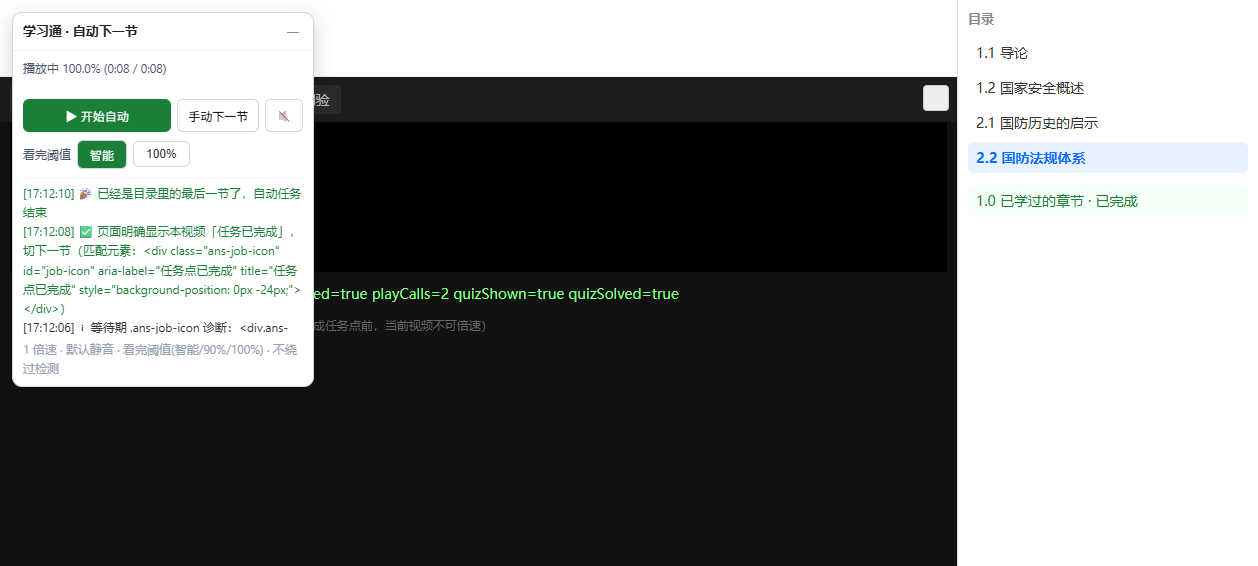
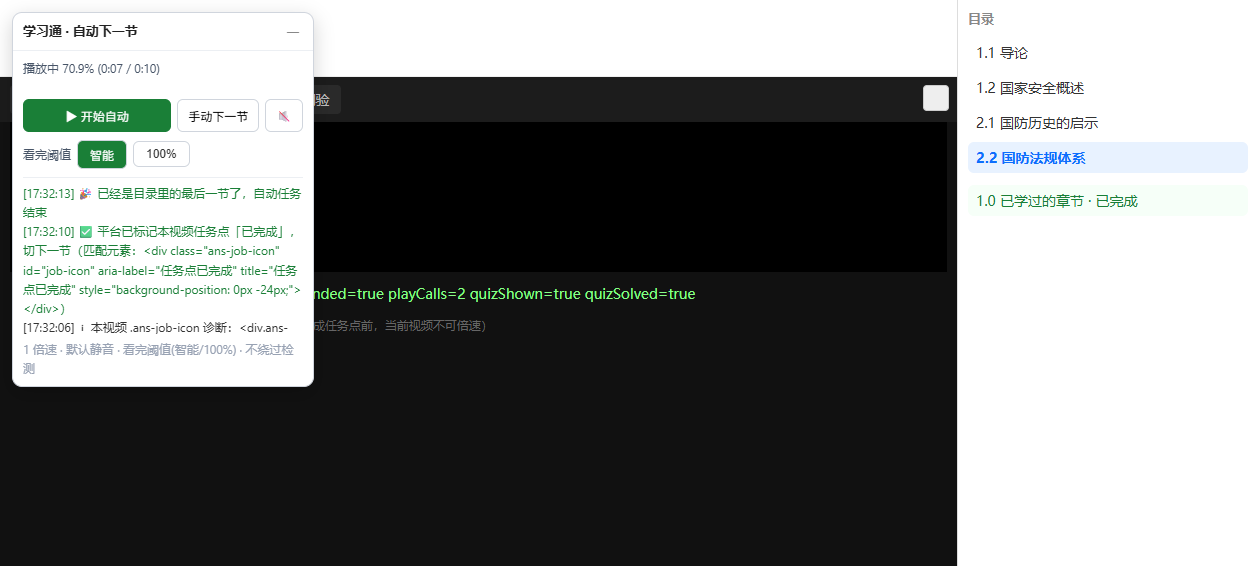
v1.3.18 智能模式改为每帧检查平台完成标记、一见已完成立即切（修复门槛未到时不检查导致的已显示完成却不切）；currentAttachCt 多路兜底 + aria-label 属性兜底 + 诊断增强

diff --git a/chaoxing-auto-next.user.js b/chaoxing-auto-next.user.js
@@ -1,7 +1,7 @@
 // ==UserScript==
 // @name         超星学习通 · 自动播放 + 播完自动下一节
 // @namespace    workbuddy.chaoxing.autonext
-// @version      1.3.17
+// @version      1.3.18
 // @description  自动播放当前章节的视频；播放完成后自动点击右侧目录的下一节并继续播放。不加速、不绕过平台的防挂机检测（视频内弹出的单选/多选题会自动尝试作答，多选暴力枚举组合）。
 // @author       WorkBuddy
 // @match        *://*.chaoxing.com/mycourse/studentstudy*
@@ -15,11 +15,14 @@
  * ---------------------------------------------------------------
  * 本脚本只做两件"免手动操作"的事：
  *   1) 进入某节后，自动点一下播放键（你本来也要点的）；
- *   2) 看完阈值三种模式（面板可切换，默认"智能"）：
- *        · 智能（默认）：先读视频旁「任务点」面板的完成条件（如"观看时长需 ≥ 总时长的 90%"）作为"看够没"的门槛；
- *          达到门槛（或视频播到结尾）后，**不再按百分比提前跳**，而是轮询等待页面**明确显示本视频"任务已完成/已完成"**这个信号，
- *          出现后才切下一节。这严格对齐平台真实完成态（平台写"90% 完成"只是观看要求，真正记完成要等它显式标记），
- *          也只盯"本视频"的状态、不被整节目录里其它任务点（如考核）干扰。
+ *   2) 看完阈值两种模式（面板可切换，默认"智能"）：
+ *        · 智能（默认）：**只要平台把"本视频"任务点标记为「已完成」就立刻切下一节**。真站的完成信号写在
+ *          内容页任务点容器 div.ans-attach-ct 里的状态图标 .ans-job-icon 上——`aria-label`（或 title）从
+ *          "任务点未完成" 变成 "任务点已完成"，背景雪碧图第二帧 `background-position: 0px -24px`（未完成是
+ *          `0px 0px`）；脚本由 video.frameElement 精确定位到"当前视频"这一个任务点容器，**每帧轮询、一见完成
+ *          标记就切**，不再等百分比（实测真站会在视频播到 ~96% 时先标记完成、而"观看要求"门槛还没到）。
+ *          若一直等不到标记，才退化为"看够「任务点」面板要求的门槛 → 等待 → 超时安全兜底切"。只盯"本视频"，
+ *          不被本章其它任务点（考核/文档）或右侧目录里已看完章节干扰。
  *        · 100%：视频必须播到结尾才直接切（不等平台确认）。
  * 视频仍然按 1 倍速、在前台、真实播放完整时长，不改学习记录。
  * 默认【静音】自动播放（浏览器普遍拦截"带声音的自动播放"，静音才稳；面板右侧 🔇/🔊 可一键切回有声）。
@@ -80,6 +83,7 @@
   let finishMode = 'smart';      // 看完阈值模式：'smart' 智能（读视频完成阈值，等页面显式标记完成才切）/ 'ratio100'（100% 直接切）
   let videoCompletedSignaled = false; // 智能模式：本视频是否已检测到"页面明确显示任务完成"信号
   let waitingCompleteSince = 0;   // 智能模式：进入"等页面标记任务完成"状态的起始时间戳（0=还没进）
+  let iconDiagKey = '';          // 本视频的 .ans-job-icon 一次性诊断是否已打印（值为 videoKey，避免重复刷屏）
   let lastKey = '';              // 当前已接管的视频标识
   let lastTabTryAt = 0;          // 上次尝试点「视频」标签的时间
   let tabMissLogged = false;     // 「本节没有视频标签」只提醒一次
@@ -630,19 +634,33 @@
     return null; // 信息不足，交给上层兜底
   }
 
-  /* 从"当前在播视频"回溯到它所在的任务点容器 div.ans-attach-ct */
+  /* 从"当前在播视频"回溯到它所在的任务点容器 div.ans-attach-ct。
+     真站各版本嵌套深度不一，这里用多路兜底，尽量稳： */
   function currentAttachCt(v) {
     try {
       const win = v && v.ownerDocument && v.ownerDocument.defaultView;
       const fe = win && win.frameElement;             // 视频所在 iframe（位于内容页里）
       if (!fe) return null;
+      /* ① 向上找 .ans-attach-ct（放宽到 12 层，防某些章节嵌套更深） */
       let n = fe;
-      for (let i = 0; i < 6 && n; i++) {
+      for (let i = 0; i < 12 && n; i++) {
         if (n.classList && n.classList.contains('ans-attach-ct')) return n;
         n = n.parentElement;
       }
-      n = fe;                                          // 放宽：退而求其次找最近的含 .ans-job-icon 的祖先
-      for (let i = 0; i < 6 && n; i++) {
+      /* ② 原生 closest */
+      try { const c = fe.closest && fe.closest('.ans-attach-ct'); if (c) return c; } catch (e) {}
+      /* ③ 在 fe 所在文档里，找"真正包含 fe"的 .ans-attach-ct（最可靠，不依赖层级） */
+      const doc = fe.ownerDocument;
+      if (doc) {
+        let cts = null;
+        try { cts = doc.querySelectorAll('.ans-attach-ct'); } catch (e) {}
+        for (let i = 0; cts && i < cts.length; i++) {
+          if (cts[i].contains && cts[i].contains(fe)) return cts[i];
+        }
+      }
+      /* ④ 退：最近的"含 .ans-job-icon"的祖先 */
+      n = fe;
+      for (let i = 0; i < 12 && n; i++) {
         if (n.querySelector && n.querySelector('.ans-job-icon, .ans-job-icon-clear')) return n;
         n = n.parentElement;
       }
@@ -658,7 +676,7 @@
   }
 
   function detectVideoTaskCompleted(v) {
-    /* ① 真站权威：当前视频所在任务点容器 */
+    /* ① 真站权威：当前视频所在任务点容器 .ans-attach-ct 内的状态图标 .ans-job-icon */
     try {
       const ct = currentAttachCt(v);
       if (ct) {
@@ -666,21 +684,22 @@
         const icon = ct.querySelector('.ans-job-icon, .ans-job-icon-clear');
         const d = jobIconDone(icon);
         if (d === true) { setDoneMatch(icon); return true; }
-        if (d === false) return false;               // 明确未完成 → 本视频任务点没完成，继续等
+        if (d === false) return false;               // 本视频任务点明确"未完成" → 继续等（不被别人干扰）
       }
     } catch (e) {}
-    /* ② 次选：页面里任一 .ans-job-icon 明确标"任务点已完成"（拿不到容器时） */
+    /* ② 退一步：视频 iframe 的直接父容器里的 .ans-job-icon（容器层级特殊时） */
     try {
-      const docs = collectDocs();
-      for (let i = 0; i < docs.length; i++) {
-        let icons;
-        try { icons = docs[i].querySelectorAll('.ans-job-icon, .ans-job-icon-clear'); } catch (e) { continue; }
-        for (let j = 0; j < icons.length; j++) {
-          if (jobIconDone(icons[j]) === true) { setDoneMatch(icons[j]); return true; }
-        }
+      const win = v && v.ownerDocument && v.ownerDocument.defaultView;
+      const fe = win && win.frameElement;
+      if (fe && fe.parentElement) {
+        const icon = fe.parentElement.querySelector('.ans-job-icon, .ans-job-icon-clear');
+        const d = jobIconDone(icon);
+        if (d === true) { setDoneMatch(icon); return true; }
+        if (d === false) return false;
       }
     } catch (e) {}
-    /* ③ 兜底：短文本元素含"任务点已完成"（本地 mock / 页面变体） */
+    /* ③ 兜底：元素的文本 **或 aria-label/title 属性** 含"任务点已完成"
+         （有的版本把状态字样写在属性里而非文本里；本地 mock 也走这条） */
     try {
       const docs = collectDocs();
       const DONE = /任务点[\s：:·]*已\s*完成/;
@@ -691,11 +710,14 @@
         try { els = docs[i].querySelectorAll('*'); } catch (e) { continue; }
         for (let j = 0; j < els.length; j++) {
           const el = els[j];
-          const t = (el.textContent || '').replace(/\s+/g, '');
-          if (!t || t.length > 60) continue;
-          if (!DONE.test(t) || NOTDONE.test(t)) continue;
+          const attr = ((el.getAttribute && (el.getAttribute('aria-label') || el.getAttribute('title'))) || '').replace(/\s+/g, '');
+          const txt = (el.textContent || '').replace(/\s+/g, '');
+          let cand = '';
+          if (attr && attr.length <= 60 && DONE.test(attr) && !NOTDONE.test(attr)) cand = attr;
+          else if (txt && txt.length <= 60 && DONE.test(txt) && !NOTDONE.test(txt)) cand = txt;
+          if (!cand) continue;
           if (isInCatalog(el)) continue;
-          if (!best || t.length < best.len) best = { el: el, len: t.length };
+          if (!best || cand.length < best.len) best = { el: el, len: cand.length };
         }
       }
       if (best) { setDoneMatch(best.el); return true; }
@@ -858,6 +880,14 @@
     setStatus('播放中 ' + (ratio * 100).toFixed(1) + '%  (' +
               fmtTime(v.currentTime) + ' / ' + fmtTime(v.duration) + ')');
 
+    /* 一次性诊断：本视频播到 ~15% 时打印一次 .ans-job-icon 状态（每个视频仅一次），
+       万一某版本仍不切，凭这一行就能看到真站到底有没有 .ans-job-icon、属性是什么。 */
+    if (iconDiagKey !== key && ratio > 0.15) {
+      iconDiagKey = key;
+      const jic0 = diagJobIcons();
+      log('ℹ 本视频 .ans-job-icon 诊断：' + (jic0 || '(未找到 .ans-job-icon)'), 'info');
+    }
+
     /* 切换阈值 / 切换触发逻辑：
        100% 模式 = 0.999（≈播到结尾，直接切）；
        智能 模式 = 从「任务点」面板读本视频的"观看要求"（如"观看时长 ≥ 总时长 90%"）作为门槛，
@@ -881,26 +911,28 @@
     const gateReached = v.ended || ratio >= gateThreshold;
 
     if (finishMode === 'smart') {
-      /* 智能：必须等"页面明确显示本视频任务完成"才切，绝不按百分比提前跳。 */
-      if (!gateReached) return; /* 还没看够门槛，继续播（上方已显示"播放中 X%"进度） */
-
-      /* 已达观看门槛 → 轮询显式完成信号（真站信号在 .ans-job-icon 的 aria-label / 背景雪碧图，不在文本） */
+      /* ⭐ 平台一旦显式标记本视频任务点「已完成」，**立即切** —— 不看百分比门槛。
+         平台的完成标记才是权威信号：实测真站「✓ 任务点已完成」会在视频播到 ~96% 时就出现，
+         此时"观看要求"门槛（如 100%）往往还没到；若非要等门槛才检查，就会出现
+         "页面已显示完成、脚本却一直不切"（旧版假阴性的直接原因）。 */
       if (detectVideoTaskCompleted(v)) {
         if (!videoCompletedSignaled) {
           videoCompletedSignaled = true;
           const m = (typeof window.__cxDoneMatch === 'string' && window.__cxDoneMatch)
             ? '（匹配元素：' + window.__cxDoneMatch + '）' : '';
-          log('✅ 页面明确显示本视频「任务已完成」，切下一节' + m, 'ok');
+          log('✅ 平台已标记本视频任务点「已完成」，切下一节' + m, 'ok');
         }
         doSwitch();
         return;
       }
 
-      /* 还没看到完成信号 → 进入"等待平台标记完成"状态，持续轮询 */
+      /* 还没看到完成标记：先看够"观看要求"门槛，再进等待轮询（兜底：门槛到了仍无标记 → 超时也切） */
+      if (!gateReached) return; /* 还没看够门槛，继续播（上方已显示"播放中 X%"进度） */
+
       if (!waitingCompleteSince) {
         waitingCompleteSince = Date.now();
         log('ℹ 已满足观看要求（≥' + Math.round(gateThreshold * 100) +
-            '%），开始等待页面明确标记「任务完成」后再切（不再按百分比提前跳）', 'info');
+            '%），开始等待平台标记「任务点完成」后再切（不再按百分比提前跳）', 'info');
         const diag = diagTaskPointHTML();
         if (diag) log('ℹ 等待期任务点面板 HTML(节选)：' + diag, 'info');
         const cand = diagTaskStatusLabels();
@@ -911,11 +943,11 @@
       const waited = Date.now() - waitingCompleteSince;
       if (waited > CFG.COMPLETE_MAXWAIT_MS) {
         log('⚠ 已等待 ' + (CFG.COMPLETE_MAXWAIT_MS / 1000) +
-            ' 秒仍未检测到页面「任务完成」信号，按安全兜底切下一节（可能任务点未真正记上，请把上面"任务点面板 HTML"发我校准）', 'warn');
+            ' 秒仍未检测到平台「任务点完成」标记，按安全兜底切下一节（可能任务点未真正记上，请把上面诊断发我校准）', 'warn');
         doSwitch();
         return;
       }
-      setStatus('已看够 ' + Math.round(gateThreshold * 100) + '%，等页面标记「任务完成」中…（已等 ' +
+      setStatus('已看够 ' + Math.round(gateThreshold * 100) + '%，等平台标记「任务点完成」中…（已等 ' +
                 Math.round(waited / 1000) + 's）');
       return;
     }
@@ -1029,7 +1061,7 @@
       '    <button id="cx-ratio-100" style="cursor:pointer;border:1px solid #d0d5dd;border-radius:6px;padding:5px 12px;background:#fff;color:#333;font-size:12px;">100%</button>',
       '  </div>',
       '  <div id="cx-log" style="max-height:150px;overflow-y:auto;border-top:1px solid #eceff3;padding-top:6px;"></div>',
-      '  <div style="color:#98a2b3;margin-top:6px;">1 倍速 · 默认静音 · 看完阈值(智能/90%/100%) · 不绕过检测</div>',
+      '  <div style="color:#98a2b3;margin-top:6px;">1 倍速 · 默认静音 · 看完阈值(智能/100%) · 不绕过检测</div>',
       '</div>'
     ].join('');
 

diff --git a/mock/layer2.html b/mock/layer2.html
@@ -79,8 +79,11 @@
   /* 奇数节默认落在「基础知识」（视频要手动点进去），偶数节直接进视频 */
   showTab((Number(n) % 2 === 1) ? 0 : 2);
 
-  /* ---------- 假视频：进度用 Date.now() 算，不受后台节流影响 ---------- */
-  var DUR = 8, MS_PER_SEC = 125, accum = 0, segStart = 0;
+  /* ---------- 假视频：进度用 Date.now() 算，不受后台节流影响 ----------
+     1 视频秒 = 1 真实秒（MS_PER_SEC=1000），让"完成标记出现在视频中段"这类时序可被观测。
+     DUR=10：视频在 50%（t=5）时被平台标记完成，脚本 2.5s 切换延迟后 t≈7.5 就切走 —— 仍未到结尾，
+     从而能证明"一见完成标记就切"（而非等到播完）。 */
+  var DUR = 10, MS_PER_SEC = 1000, accum = 0, segStart = 0;
   function segElapsed() { return segStart ? (Date.now() - segStart) / MS_PER_SEC : 0; }
   function elapsed() { return accum + segElapsed(); }
 
@@ -126,7 +129,7 @@
   });
 
   function maybeShowQuiz() {
-    if (!window.__quizShown && !window.__quizSolved && v.currentTime >= 3) {
+    if (!window.__quizShown && !window.__quizSolved && v.currentTime >= 1) {
       window.__quizShown = true;
       v.pause();                                       // 弹出弹题时暂停视频
       vq.style.display = 'block';
@@ -142,10 +145,11 @@
   };
 
   setInterval(function () {
-    /* 视频真正结束后：平台**延迟 2 秒**才把「任务点」标记为完成（模拟超星落库延迟，
-       即"视频播完了、页面还没显示完成"的那段窗口）。脚本智能模式必须等这个显式信号才切。 */
-    if (v.ended && !window.__completeAt) window.__completeAt = Date.now() + 2000;
-    if (window.__completeAt && !window.__markedComplete && Date.now() >= window.__completeAt) {
+    /* ⭐ 真站实测：平台会在视频**还没播完**（约 90%+）时就把任务点标记为「已完成」。
+       这里复现该场景：视频播到 **50%** 就标记完成 —— 远早于"观看要求"门槛、也早于视频结束。
+       v1.3.18 的智能模式必须"一看到完成标记就切"，而不是死等百分比门槛或视频播完。 */
+    if (!window.__doneMarkAt && v.currentTime >= DUR * 0.5) window.__doneMarkAt = Date.now() + 400;
+    if (window.__doneMarkAt && !window.__markedComplete && Date.now() >= window.__doneMarkAt) {
       window.__markedComplete = true;
       try {
         var l1 = window.parent;                                    // layer1（任务点容器所在层）

diff --git a/mock/index.html b/mock/index.html
@@ -68,6 +68,16 @@
   window.__activated = [];
 
   function activate(i) {
+    /* 切章前，先记录"上一节视频被切走那一刻"的状态（ended / t / 播放次数）——
+       自测据此验证脚本是"一看到完成标记就切"（此时视频还没播到结尾），还是死等到了结尾。 */
+    try {
+      var of = document.getElementById('iframe');
+      var ovf = of && of.contentDocument && of.contentDocument.getElementById('vframe');
+      var ol2 = ovf && ovf.contentDocument && ovf.contentDocument.defaultView;
+      if (ol2 && typeof ol2.__state === 'function') {
+        window.__switchStates = (window.__switchStates || []).concat([ol2.__state()]);
+      }
+    } catch (e) {}
     window.__activated.push(CHAPTERS[i].name);
     document.querySelectorAll('.posCatalog_select').forEach(function (n) {
       n.classList.remove('posCatalog_active');

diff --git a/安装与使用说明.md b/安装与使用说明.md
@@ -48,7 +48,7 @@
 4. 之后：自动点播放 → 视频真实播完 → 自动点右侧目录的下一节 → 继续。你只需要让这个标签页保持在前台。
 5. 想停就点 **⏸ 暂停自动**；想手动跳一节就点 **手动下一节**；面板左上角 **—** 可折叠。面板右侧的 **🔇 / 🔊** 按钮是静音开关：默认静音（避免浏览器拦截带声自动播放），想听声音就点一下切回🔊，再点回🔇。
 6. 面板里有一组 **「看完阈值」** 按钮：**智能** / **100%**，可随时切换（互斥，当前选中的亮绿）——
-   - **智能**（默认）：**只盯"本视频"的完成态，既不按百分比提前跳、也不等整节目录清零。** 先读视频旁「任务点」面板的完成条件（如"观看时长需 ≥ 总时长的 90%"）作为"看够没"的**门槛**；达到门槛（或视频播到结尾）后，脚本**轮询等待真站的任务点容器 `div.ans-attach-ct` 里的状态图标 `.ans-job-icon` 被标记为完成**——真站的完成信号藏在图标属性里：**`aria-label`（或 `title`）变成「任务点已完成」**，且背景雪碧图第二帧 **`background-position: 0px -24px`**（未完成是 `0px 0px`），有的版本还给 `.ans-attach-ct` 加 `ans-job-finished` 类、给图标加 `ans-job-icon-clear` 类。视频 iframe 就嵌在对应的 `.ans-attach-ct` 里，脚本由 `video.frameElement` 向上回溯直接定位到**当前视频这一个**任务点容器，只判它、不被本节其它任务点（考核/文档）或目录里已看完的章节干扰。⚠ 注意：这个"已完成"字样在 **`aria-label` 属性**里、完成态靠**背景雪碧图换位**表示，**不在页面 `textContent` 文本里**——所以"搜页面文字"永远搜不到（这正是此前多个版本一直假阴性的根因）。这严格对齐平台真实完成态（平台写"90% 完成"只是观看要求，真正记完成要等它显式标记）；
+   - **智能**（默认）：**只要真站把"本视频"任务点标记为「已完成」，立刻切下一节**（不等百分比）。真站完成信号**不在页面文字里**，而在内容页任务点容器 `div.ans-attach-ct` 内的状态图标 `.ans-job-icon` 上：`aria-label`（或 `title`）为「任务点已完成」、背景雪碧图第二帧 `background-position: 0px -24px`（未完成 `0px 0px`），有的版本给 `.ans-attach-ct` 加 `ans-job-finished` 类、给图标加 `ans-job-icon-clear` 类。视频 iframe 就嵌在对应 `.ans-attach-ct` 里，脚本由 `video.frameElement` **精确定位到"当前视频"这一个**任务点容器、每帧轮询，**一见完成标记就切**（实测真站在视频播到 ~96% 时就先标记完成，此时"观看要求"门槛还没到——旧版因为非要等门槛才检查，就会出现"页面已显示完成、脚本却不切"）。只盯"本视频"，不被本节其它任务点或目录里已看完章节干扰。万一一直等不到标记，才退化为"看够「任务点」面板要求的门槛 → 等待 → 超时安全兜底切"；
    - **100%**：必须等视频真正播到结尾（`ended`）才**直接**切，满足"要求全部看完"，但不等平台确认（万一平台 `ended` 事件没触发会多等一会儿，此时手动点「手动下一节」即可）。
 
 面板右下角有实时日志（哪节在播、几点切到下一节、是否遇到弹题等）。
@@ -60,7 +60,7 @@
 | 功能              | 行为                                 |
 | --------------- | ---------------------------------- |
 | ✅ 自动播放          | 进入某节后自动点击播放键（你本来也要点的）              |
-| ✅ 播完自动下一节       | 看完阈值可选 **智能 / 100%**（默认智能）：**智能**模式下脚本先读视频旁「任务点」面板的完成条件（如"观看时长需 ≥ 总时长的 90%"）作为"看够没"的门槛，达到门槛或播到结尾后，**不再按百分比提前跳，而是轮询等待当前视频的任务点容器 `div.ans-attach-ct` 里的状态图标 `.ans-job-icon` 被标记为完成**（真站信号在 `aria-label="任务点已完成"` + 背景雪碧图第二帧 `0px -24px`，**不在页面文本里**），出现才切（严格对齐平台真实完成态：平台写"90%完成"只是观看要求，真正记完成要等它显式标记；只判当前视频这一个任务点容器，不会误命中目录里其它已看完章节）；**100%** 模式下视频播到结尾（`ended`）后**直接**切下一节，不等待平台确认，满足"要求全部看完" |
+| ✅ 播完自动下一节       | 看完阈值可选 **智能 / 100%**（默认智能）：**智能**模式下脚本**只要真站把"本视频"任务点标记为「已完成」就立刻切**——信号读自当前视频任务点容器 `div.ans-attach-ct` 内的状态图标 `.ans-job-icon`（`aria-label="任务点已完成"` + 背景雪碧图第二帧 `0px -24px`，**不在页面文本里**），每帧轮询、不等百分比；一直等不到标记才退化为"看够「任务点」要求的门槛 → 等待 → 超时兜底切"。**100%** 模式下视频播到结尾（`ended`）后**直接**切下一节，不等待平台确认，满足"要求全部看完" |
 | ✅ 弹题自动作答（单选+多选） | 视频中途弹出**单选/多选题**时自动作答：单选逐个试选项、多选暴力枚举所有组合逐个试，答错或提交后 2.7 秒无反馈就换下一组重提交，直到答对（所有组合都试完仍无确定反馈才停下让你手动） |
 | ✅ 默认静音自动播放      | 浏览器普遍拦截"带声音的自动播放"，所以默认**静音**播放最稳；面板右侧 🔇/🔊 可一键切回有声 |
 | ✅ 遇到非视频节点       | 当前是音频/文档/测验且没找到视频时，会停下提醒你，不会替你跳过   |
@@ -109,6 +109,7 @@
 
 ## 七、版本更新
 
+- **v1.3.18**（2026-10-13）：**关键时序修正——智能模式"一见平台的完成标记就切"，不再死等百分比门槛。** 你回传真站截图：绿色徽标 `✓ 任务点已完成` 已经显示，但视频才播到 **96.9%**，脚本却一直停在"播放中 96.9%"、一动不动。根因是**检查时机**错了：v1.3.17 虽然已经读对了 `.ans-job-icon` 信号，但它把检查放在"**达到观看门槛之后**"——而这个视频的"观看要求"门槛（如 100%）还没到（平台却在 ~96% 时**提前**把任务点标记成已完成），于是脚本压根没去读那个已经存在的完成标记 → 表现为"已完成却不切"。改为：**每帧都先检查平台完成标记，一见「已完成」立即切**（不看百分比）；只有"一直等不到标记"时，才退化为原来的"看够门槛 → 等待 → 超时兜底切"。另加两处稳健性与诊断：① `currentAttachCt()` 定位当前视频任务点容器改用多路兜底（向上 12 层 + 原生 `closest()` + "在视频 iframe 所在文档里找真正包含它的 `.ans-attach-ct`"），应对真站不同版本的嵌套差异；② 兜底检测新增扫描 **`aria-label`/`title` 属性**（不再只扫文本），并把等待期诊断扩成 `.ans-job-icon` 的 `aria-label`+`backgroundPosition` 逐条打印；③ 新增"本视频 `.ans-job-icon` 诊断"一次性日志（视频播到 ~15% 时打印，每个视频一次），万一还有版本不切，凭这一行即可定位。同步修正面板底部长期未更新的文案（`看完阈值(智能/90%/100%)` → `看完阈值(智能/100%)`）。同步改 mock：把"完成标记"提前到视频 **50%**（远早于门槛与结尾）并记录每节"被切走那一刻的视频状态"，自测据此证明 v1.3.18 是"一见标记就切、而非死等门槛"——智能模式 4 节切走时 `ended=false`（视频**未播完**），而 100% 模式 4 节均 `ended=true`（播到结尾才切），两种模式对比即证明。
 - **v1.3.17**（2026-10-13）：**智能模式的完成检测改用超星真实 DOM 信号 `.ans-job-icon`，彻底修掉"已显示完成却不切"的假阴性。** 你回传真站截图：屏幕明明显示绿色徽标 `✓ 任务点已完成`，但面板诊断行"等待期『任务点』状态标签候选"里**只有 `任务点未完成`、从头到尾搜不到任何 `任务点已完成`**——这把真正的根因钉死了：**完成信号根本不在页面 `textContent` 文本里**。经核对多个公开脚本确认，超星前端把任务点完成态写在内容页 `#iframe` 里每个任务点容器 `div.ans-attach-ct` 中的状态图标 `div.ans-job-icon` 上：① `aria-label`（或 `title`）=「任务点已完成」（未完成="任务点未完成"）；② 完成时背景雪碧图第二帧 `background-position: 0px -24px`（未完成 `0px 0px`）；③ 有的版本给 `.ans-attach-ct` 加 `ans-job-finished`、给图标加 `ans-job-icon-clear`。视频 iframe 嵌在对应 `.ans-attach-ct` 内，脚本由 `video.frameElement` 向上回溯**精确定位当前视频这一个**任务点容器，只判它。v1.3.16 的"搜文本"思路从根上就不可能命中，所以这次重写成读 `.ans-job-icon` 的 `aria-label` / `backgroundPosition`（文本搜"任务点已完成"作为本地 mock / 变体兜底）。另新增等待期诊断行"等待期 `.ans-job-icon` 诊断"，打印每个图标的 `aria-label` 与 `backgroundPosition`，以后万一某版本没切，凭这一行就能确认是"雪碧图没变位"还是"真没完成"。同步把 mock 重构成真站结构：完成信号写在 `layer1` 的 `div.ans-attach-ct > .ans-job-icon`（`aria-label` + `background-position`）上，与顶部横幅同时翻转。自测通过：4 节均经 `.ans-job-icon` 主路径命中完成并切换；100% 模式仍"直接切"无回归。
 - **v1.3.16**（2026-10-13）：**智能模式的完成检测改用真站权威信号「任务点已完成」，修复"已显示完成却不切"（文本搜思路，已被 v1.3.17 修正为读 `.ans-job-icon` 属性）。** 你回传真站截图：视频上方标题区出现绿色徽标 **`✓ 任务点已完成`**，而面板却一直停在"已看够 100%，等页面标记「任务完成」中…（已等 17s）"不切。当时判断根因是"完成徽标在另一个位置、爬不到"，于是改成遍历所有文档按短语 `任务点已完成` 搜 `textContent`。但**实测你的截图证明真站这行字压根不在 `textContent` 里**（诊断候选里只有 `任务点未完成`），所以本版仍假阴性，真正的解法见 v1.3.17——读 `.ans-job-icon` 的 `aria-label` 属性。本版新增的等待期诊断行"等待期『任务点』状态标签候选"为定位根因提供了关键证据。
 - **v1.3.15**（2026-10-12）：**修复「智能模式误判其它已看完章节的『已完成』而提前切」。** 你实测截图指出：当前视频只播到 90% 左右、自己的任务点面板还没显示完成，脚本却切走了。根因是 v1.3.13 的 `detectVideoTaskCompleted()` 在**整页**搜"已完成"，而课程页里其它早已看完的章节同样写着"已完成"，于是被误判成当前视频已完成。改为：**把检测严格限定在当前视频自己的「任务点」面板内**——先用 `findCurrentTaskPointEl()` 定位该面板（取最短文本命中"观看时长/完成条件"的元素），再只在面板内向上爬最多 8 层父节点、且一旦子树文字 > 400 字（已爬到含目录的整页大容器）就立刻停，绝不让别的章节"已完成"混进来。同步在 mock 加回归用例：页面放一个写"已完成"的其它章节 div、并让当前面板在视频结束后延迟 2 秒才翻成"已完成"，以复现并验证该 bug。自测通过：匹配到的元素是当前视频的 `taskpoint-panel`、对"其它已完成"的 grep 命中为 0、时间线为「满足观看要求 → 页面明确显示本视频已完成 → 切下一节」，4 节全部正确等完成再切。**⚠ 该版同时引入"真站已显示完成却不切"的假阴性，已被 v1.3.16 修正。**
